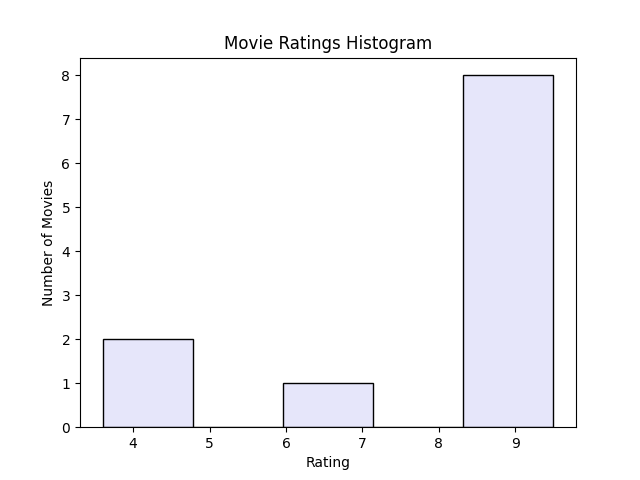
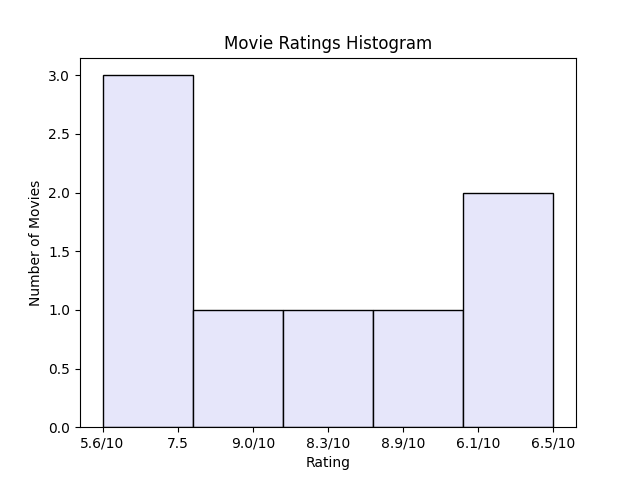
update further functions in final_movie.py to work proper with db data format

diff --git a/movies.html b/movies.html
@@ -10,7 +10,7 @@
 </div>
 <div>
     <ol class="movie-grid">
-        <li><div class='movie'><img class='movie-poster' src='https://m.media-amazon.com/images/M/MV5BOTA1Mzc2N2ItZWRiNS00MjQzLTlmZDQtMjU0NmY1YWRkMGQ4XkEyXkFqcGc@._V1_SX300.jpg'/><div class='movie-title'>Harry Potter and the Deathly Hallows: Part 2</div><div class=movie-year>2011.0</div></div></li><li><div class='movie'><img class='movie-poster' src='https://m.media-amazon.com/images/M/MV5BMTA0MjI5ODA3MjReQTJeQWpwZ15BbWU3MDI1NTE3Njc@._V1_SX300.jpg'/><div class='movie-title'>LOL</div><div class=movie-year>2012.0</div></div></li><li><div class='movie'><img class='movie-poster' src='https://m.media-amazon.com/images/M/MV5BYTViYTE3ZGQtNDBlMC00ZTAyLTkyODMtZGRiZDg0MjA2YThkXkEyXkFqcGc@._V1_SX300.jpg'/><div class='movie-title'>Pulp Fiction</div><div class=movie-year>1994.0</div></div></li><li><div class='movie'><img class='movie-poster' src='https://m.media-amazon.com/images/M/MV5BZDFiN2I4YjUtNDE5ZS00MGMwLWJlZmItN2FhZGRjNTM1NWM4XkEyXkFqcGc@._V1_SX300.jpg'/><div class='movie-title'>Selma</div><div class=movie-year>2014.0</div></div></li><li><div class='movie'><img class='movie-poster' src='https://m.media-amazon.com/images/M/MV5BOGZlZjAyYTItMDdjYy00OGZlLWI3NDAtYzM5ZjAwNjg0NWUxXkEyXkFqcGc@._V1_SX300.jpg'/><div class='movie-title'>Flight Risk</div><div class=movie-year>2025.0</div></div></li><li><div class='movie'><img class='movie-poster' src='https://m.media-amazon.com/images/M/MV5BZWIxOGQyYjYtOGEwOC00YWNjLWJmNTktZjJlM2RmNTdjMmVlXkEyXkFqcGc@._V1_SX300.jpg'/><div class='movie-title'>The Order</div><div class=movie-year>2024.0</div></div></li><li><div class='movie'><img class='movie-poster' src='https://m.media-amazon.com/images/M/MV5BMTcwNTE4MTUxMl5BMl5BanBnXkFtZTcwMDIyODM4OA@@._V1_SX300.jpg'/><div class='movie-title'>The Hobbit: An Unexpected Journey</div><div class=movie-year>2012.0</div></div></li><li><div class='movie'><img class='movie-poster' src='https://m.media-amazon.com/images/M/MV5BNTQxMmVlMTItMGFjYi00MTc2LWE5MzMtYjFhZWJmZGY0MTY5XkEyXkFqcGc@._V1_SX300.jpg'/><div class='movie-title'>Hulk</div><div class=movie-year>2003.0</div></div></li><li><div class='movie'><img class='movie-poster' src='https://m.media-amazon.com/images/M/MV5BOGI5YTc5MjItY2UzZS00NDhjLWFjZTgtOTMzNzFiOTlmMTEzXkEyXkFqcGdeQXVyNTY4ODAxODI@._V1_SX300.jpg'/><div class='movie-title'>Nemo</div><div class=movie-year>1984.0</div></div></li>
+        <li><div class='movie'><img class='movie-poster' src='https://m.media-amazon.com/images/M/MV5BNTQxMmVlMTItMGFjYi00MTc2LWE5MzMtYjFhZWJmZGY0MTY5XkEyXkFqcGc@._V1_SX300.jpg'/><div class='movie-title'>Hulk</div><div class=movie-year>5.6/10</div></div></li><li><div class='movie'><img class='movie-poster' src='https://m.media-amazon.com/images/M/MV5BOGI5YTc5MjItY2UzZS00NDhjLWFjZTgtOTMzNzFiOTlmMTEzXkEyXkFqcGdeQXVyNTY4ODAxODI@._V1_SX300.jpg'/><div class='movie-title'>Nemo</div><div class=movie-year>7.5</div></div></li><li><div class='movie'><img class='movie-poster' src='https://m.media-amazon.com/images/M/MV5BMTMxNTMwODM0NF5BMl5BanBnXkFtZTcwODAyMTk2Mw@@._V1_SX300.jpg'/><div class='movie-title'>The Dark Knight</div><div class=movie-year>9.0/10</div></div></li><li><div class='movie'><img class='movie-poster' src='https://m.media-amazon.com/images/M/MV5BNzY3OWQ5NDktNWQ2OC00ZjdlLThkMmItMDhhNDk3NTFiZGU4XkEyXkFqcGc@._V1_SX300.jpg'/><div class='movie-title'>Joker</div><div class=movie-year>8.3/10</div></div></li><li><div class='movie'><img class='movie-poster' src='https://m.media-amazon.com/images/M/MV5BYTViYTE3ZGQtNDBlMC00ZTAyLTkyODMtZGRiZDg0MjA2YThkXkEyXkFqcGc@._V1_SX300.jpg'/><div class='movie-title'>Pulp Fiction</div><div class=movie-year>8.9/10</div></div></li><li><div class='movie'><img class='movie-poster' src='https://m.media-amazon.com/images/M/MV5BMTQ2NTMxODEyNV5BMl5BanBnXkFtZTcwMDgxMjA0MQ@@._V1_SX300.jpg'/><div class='movie-title'>The Fast and the Furious: Tokyo Drift</div><div class=movie-year>6.1/10</div></div></li><li><div class='movie'><img class='movie-poster' src='https://m.media-amazon.com/images/M/MV5BZDljZmMzMWMtZTgzMS00NjExLThkN2UtNDhiOGE4ZjgzNjhjXkEyXkFqcGc@._V1_SX300.jpg'/><div class='movie-title'>Prestige</div><div class=movie-year>5.6/10</div></div></li><li><div class='movie'><img class='movie-poster' src='https://m.media-amazon.com/images/M/MV5BMGZkMmI5ZjMtNWRjMy00NmI2LTk3NzQtNjZhOGMyNmRjZGNjXkEyXkFqcGc@._V1_SX300.jpg'/><div class='movie-title'>The Joker</div><div class=movie-year>6.5/10</div></div></li>
     </ol>
 </div>
 </body>

diff --git a/final_movie.py b/final_movie.py
@@ -165,7 +165,7 @@ def update_movie(movies):
     if movie_to_update in movies:
         try:
             enter_new_rate = float(input('Enter a new rate: '))
-            movies[movie_to_update]['Rating'] = enter_new_rate
+            movies[movie_to_update]['rating'] = enter_new_rate
             storage.update_movie(movie_to_update, enter_new_rate)
             return (f"{colors['info']}The rating of the movie '{movie_to_update}' "
                     f"was successfully updated.")
@@ -181,23 +181,62 @@ def stats(movies):
     Args: movies (dict): The movie database.
     Returns: str: A formatted string containing average, median, best, and worst movie ratings.
     """
-    rate_list = [details['Rating'] for details in movies.values()]
+    rate_list = []
+    for details in movies.values():
+        try:
+            # Check if the rating is a string in 'X.X/10' format or already a float
+            rating = details['rating']
+            if isinstance(rating, str) and '/' in rating:
+                # If it's a string with '/10', extract the numeric value
+                numeric_rating = float(rating.split('/')[0])
+            elif isinstance(rating, (int, float)):
+                # If it's already a number, use it directly
+                numeric_rating = float(rating)
+            else:
+                # If the rating is neither string nor numeric, skip it
+                print(f"Warning: Invalid rating format for movie {details.get('title', 'Unknown')}. Skipping.")
+                continue
+
+            rate_list.append(numeric_rating)
+
+        except (ValueError, KeyError) as e:
+            print(f"Error processing movie {details.get('title', 'Unknown')}: {e}")
+
+    if not rate_list:  # If no valid ratings were found
+        return f"{colors['error']}No valid ratings found to calculate statistics."
 
     average_rate = statistics.mean(rate_list)
     median_rate = statistics.median(rate_list)
-
     max_rating = max(rate_list)
     min_rating = min(rate_list)
 
-    best_movies = [f"{title}, {details['Rating']}"
-                   for title, details in movies.items() if details['Rating'] == max_rating]
-    worst_movies = [f"{title}, {details['Rating']}"
-                    for title, details in movies.items() if details['Rating'] == min_rating]
+    # Prepare the lists for best and worst movies
+    best_movies = [f"{title}, {details['rating']}"
+                   for title, details in movies.items() if get_numeric_rating(details['rating']) == max_rating]
+    worst_movies = [f"{title}, {details['rating']}"
+                    for title, details in movies.items() if get_numeric_rating(details['rating']) == min_rating]
 
     return (f"{colors['info']}The average rating is: {average_rate:.2f}\n"
             f"The median rating is: {median_rate:.2f}\n"
             f"The best movie(s):\n" + '\n'.join(best_movies) + "\n"
             f"The worst movie(s):\n" + '\n'.join(worst_movies))
+
+
+def get_numeric_rating(rating):
+    """
+    Helper function to get numeric rating value from string or float.
+    :param rating: The movie rating (either string in 'X.X/10' format or a numeric value).
+    :return: The numeric value of the rating.
+    """
+    if isinstance(rating, str) and '/' in rating:
+        # Extract the numeric part before '/10'
+        return float(rating.split('/')[0])
+    elif isinstance(rating, (int, float)):
+        # Return the numeric value directly
+        return float(rating)
+    else:
+        # Return 0 if the rating format is invalid
+        return 0
 
 
 def random_movie(movies):
@@ -207,7 +246,7 @@ def random_movie(movies):
     Returns: str: A formatted string with the selected movie's title and rating.
     """
     title, details = random.choice(list(movies.items()))
-    return f"{colors['info']}The movie of the night: {title}, Rating: {details['Rating']}"
+    return f"{colors['info']}The movie of the night: {title}, Rating: {details['rating']}"
 
 
 def search_movie(movies):
@@ -222,7 +261,7 @@ def search_movie(movies):
                          if user_search.lower() in title.lower()]
 
     if potential_matches:
-        return "\n".join([f"{colors['info']}{title}, Rating: {details['Rating']}, Year: {details['Year']}"
+        return "\n".join([f"{colors['info']}{title}, Rating: {details['rating']}, Year: {details['year']}"
                           for title, details in potential_matches])
 
     titles_list = list(movies.keys())
@@ -242,8 +281,8 @@ def sorted_movies_by_rate(movies):
     Args: movies (dict): The movie database.
     Returns: str: A formatted string listing movies sorted by rating.
     """
-    sorted_movies = dict(sorted(movies.items(), key=lambda item: item[1]['Rating'], reverse=True))
-    output_descending_order = "\n".join([f"{title}, Rating: {details['Rating']}, Year: {details['Year']}"
+    sorted_movies = dict(sorted(movies.items(), key=lambda item: get_numeric_rating(item[1]['rating']), reverse=True))
+    output_descending_order = "\n".join([f"{title}, Rating: {details['rating']}, Year: {details['year']}"
                                          for title, details in sorted_movies.items()])
     return f"{colors['info']}Movies sorted by descending rating:\n{output_descending_order}"
 
@@ -257,14 +296,14 @@ def sorted_movies_by_year(movies):
     user_order = input("If you would like an descending order, enter 'd'.\n"
                        "If you would like an ascending order, enter 'a': ")
     if user_order.lower() == "d":
-        sorted_movies = dict(sorted(movies.items(), key=lambda item: item[1]['Year'], reverse=True))
-        output_descending_order = "\n".join([f"{title}, Rating: {details['Rating']}, Year: {details['Year']}"
+        sorted_movies = dict(sorted(movies.items(), key=lambda item: item[1]['year'], reverse=True))
+        output_descending_order = "\n".join([f"{title}, Rating: {details['rating']}, Year: {details['year']}"
                                              for title, details in sorted_movies.items()])
         return f"{colors['info']}Movies sorted by descending year:\n{output_descending_order}"
 
     elif user_order.lower() == "a":
-        sorted_movies = dict(sorted(movies.items(), key=lambda item: item[1]['Year'], reverse=False))
-        output_ascending_order = "\n".join([f"{title}, Rating: {details['Rating']}, Year: {details['Year']}"
+        sorted_movies = dict(sorted(movies.items(), key=lambda item: item[1]['year'], reverse=False))
+        output_ascending_order = "\n".join([f"{title}, Rating: {details['rating']}, Year: {details['year']}"
                                              for title, details in sorted_movies.items()])
         return f"{colors['info']}Movies sorted by ascending year:\n{output_ascending_order}"
     else:
@@ -305,8 +344,8 @@ def filter_movies(movies):
         end_year = float('inf')
 
     for title, detail in movies.items():
-        if start_year <= detail['Year'] <= end_year and detail['Rating'] >= minimum_rating:
-            filtered_movies.append(f"{title} ({detail['Year']}): {detail['Rating']}")
+        if start_year <= detail['year'] <= end_year and get_numeric_rating(['rating']) >= minimum_rating:
+            filtered_movies.append(f"{title} ({detail['year']}): {detail['rating']}")
 
     return f"{colors['info']}{'\n'.join(filtered_movies)}"
 
@@ -319,7 +358,7 @@ def create_histogram(movies):
     """
     try:
         output_file = input("Enter a filename to save the histogram (e.g., 'histogram.png'): ")
-        ratings = [details['Rating'] for details in movies.values()]
+        ratings = [details['rating'] for details in movies.values()]
 
         # Plot the histogram
         plt.hist(ratings, bins=5, color='lavender', edgecolor='black')
